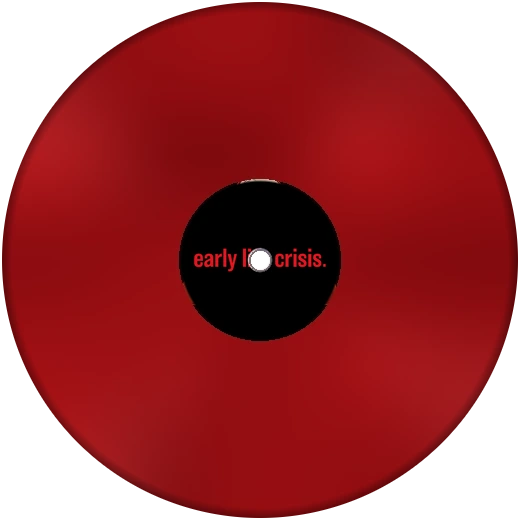
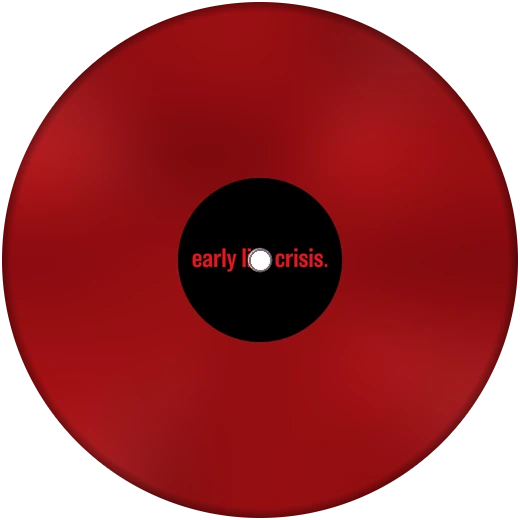
Nettspend : plus de liseré clair au bord de l etiquette du vinyle rouge

diff --git a/index.html b/index.html
@@ -184,7 +184,7 @@
         <div class="disc-spin" id="discSpin">
           <img class="disc" src="assets/disc.webp?v=2" alt="">
           <!-- Nettspend, pistes sales : le vinyle rouge, en fondu par-dessus -->
-          <img class="disc-d" src="assets/disc7_d.webp?v=3" alt="" loading="lazy">
+          <img class="disc-d" src="assets/disc7_d.webp?v=4" alt="" loading="lazy">
         </div>
       </div>
       <span class="spindle"></span>
